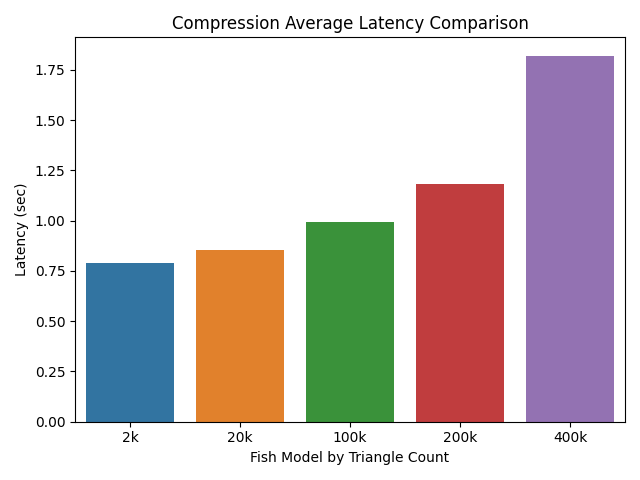
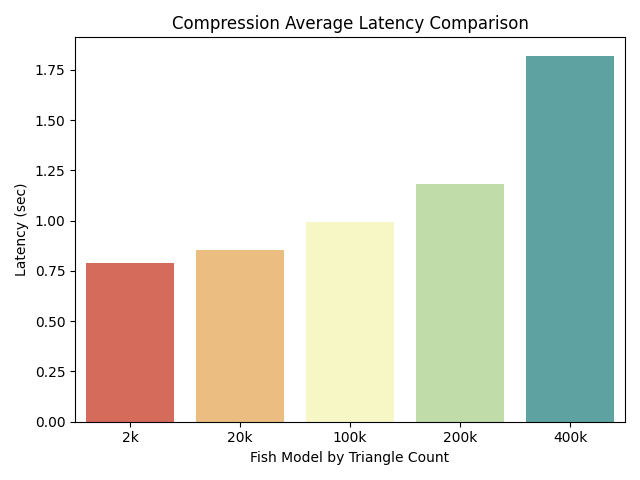
analysis for gltf and update colors

diff --git a/latency.py b/latency.py
@@ -1,4 +1,3 @@
-from datetime import time
 import glob
 import matplotlib.pyplot as plt
 import seaborn as sns
@@ -17,17 +16,23 @@ file_model_Mb = {
     'Cloud 200k' : 64.0528,
     'Cloud 400k' : 148.00352,
     'Cloud 2k' : 24.807808,
-    'Cloud 20k' : 29.271456, 
+    'Cloud 20k' : 29.271456,
+    'gltf' : {'light' : 709.804736, 'dark' : 101.5808}
 }
 
 def latency_calculations(dataset, title):
     for context in ['light', 'dark']:
         mean = np.mean(dataset[context])
         std = np.std(dataset[context])
+        if title == 'gltf':
+            size = file_model_Mb[title][context]
+        else:
+            size = file_model_Mb[title]
+
         with open(f'calculations/{title}_{context}.txt', 'w') as f:
             f.write(f'mean: {mean}\n')
             f.write(f'std: {std}\n')
-            f.write(f'throughput: {file_model_Mb[title] / mean}\n')
+            f.write(f'throughput: {size / mean}\n')
 
     ax = sns.histplot(data=dataset, element='step', kde=True)
     graph_title = f'{title} Model Latency'

diff --git a/bar_graph.py b/bar_graph.py
@@ -6,7 +6,7 @@ import pandas as pd
 
 def graph_bar(data, title, units):
     light_data = data[data['model'] == 'light']
-    ax = sns.barplot(data=light_data, x='triangle', y=title)
+    ax = sns.barplot(data=light_data, x='triangle', y=title, palette='Spectral')
     graph_title = f'Compression Average {title} Comparison'
     ax.set(xlabel='Fish Model by Triangle Count', ylabel=f'{title} ({units})', title=graph_title)
     plt.tight_layout()
